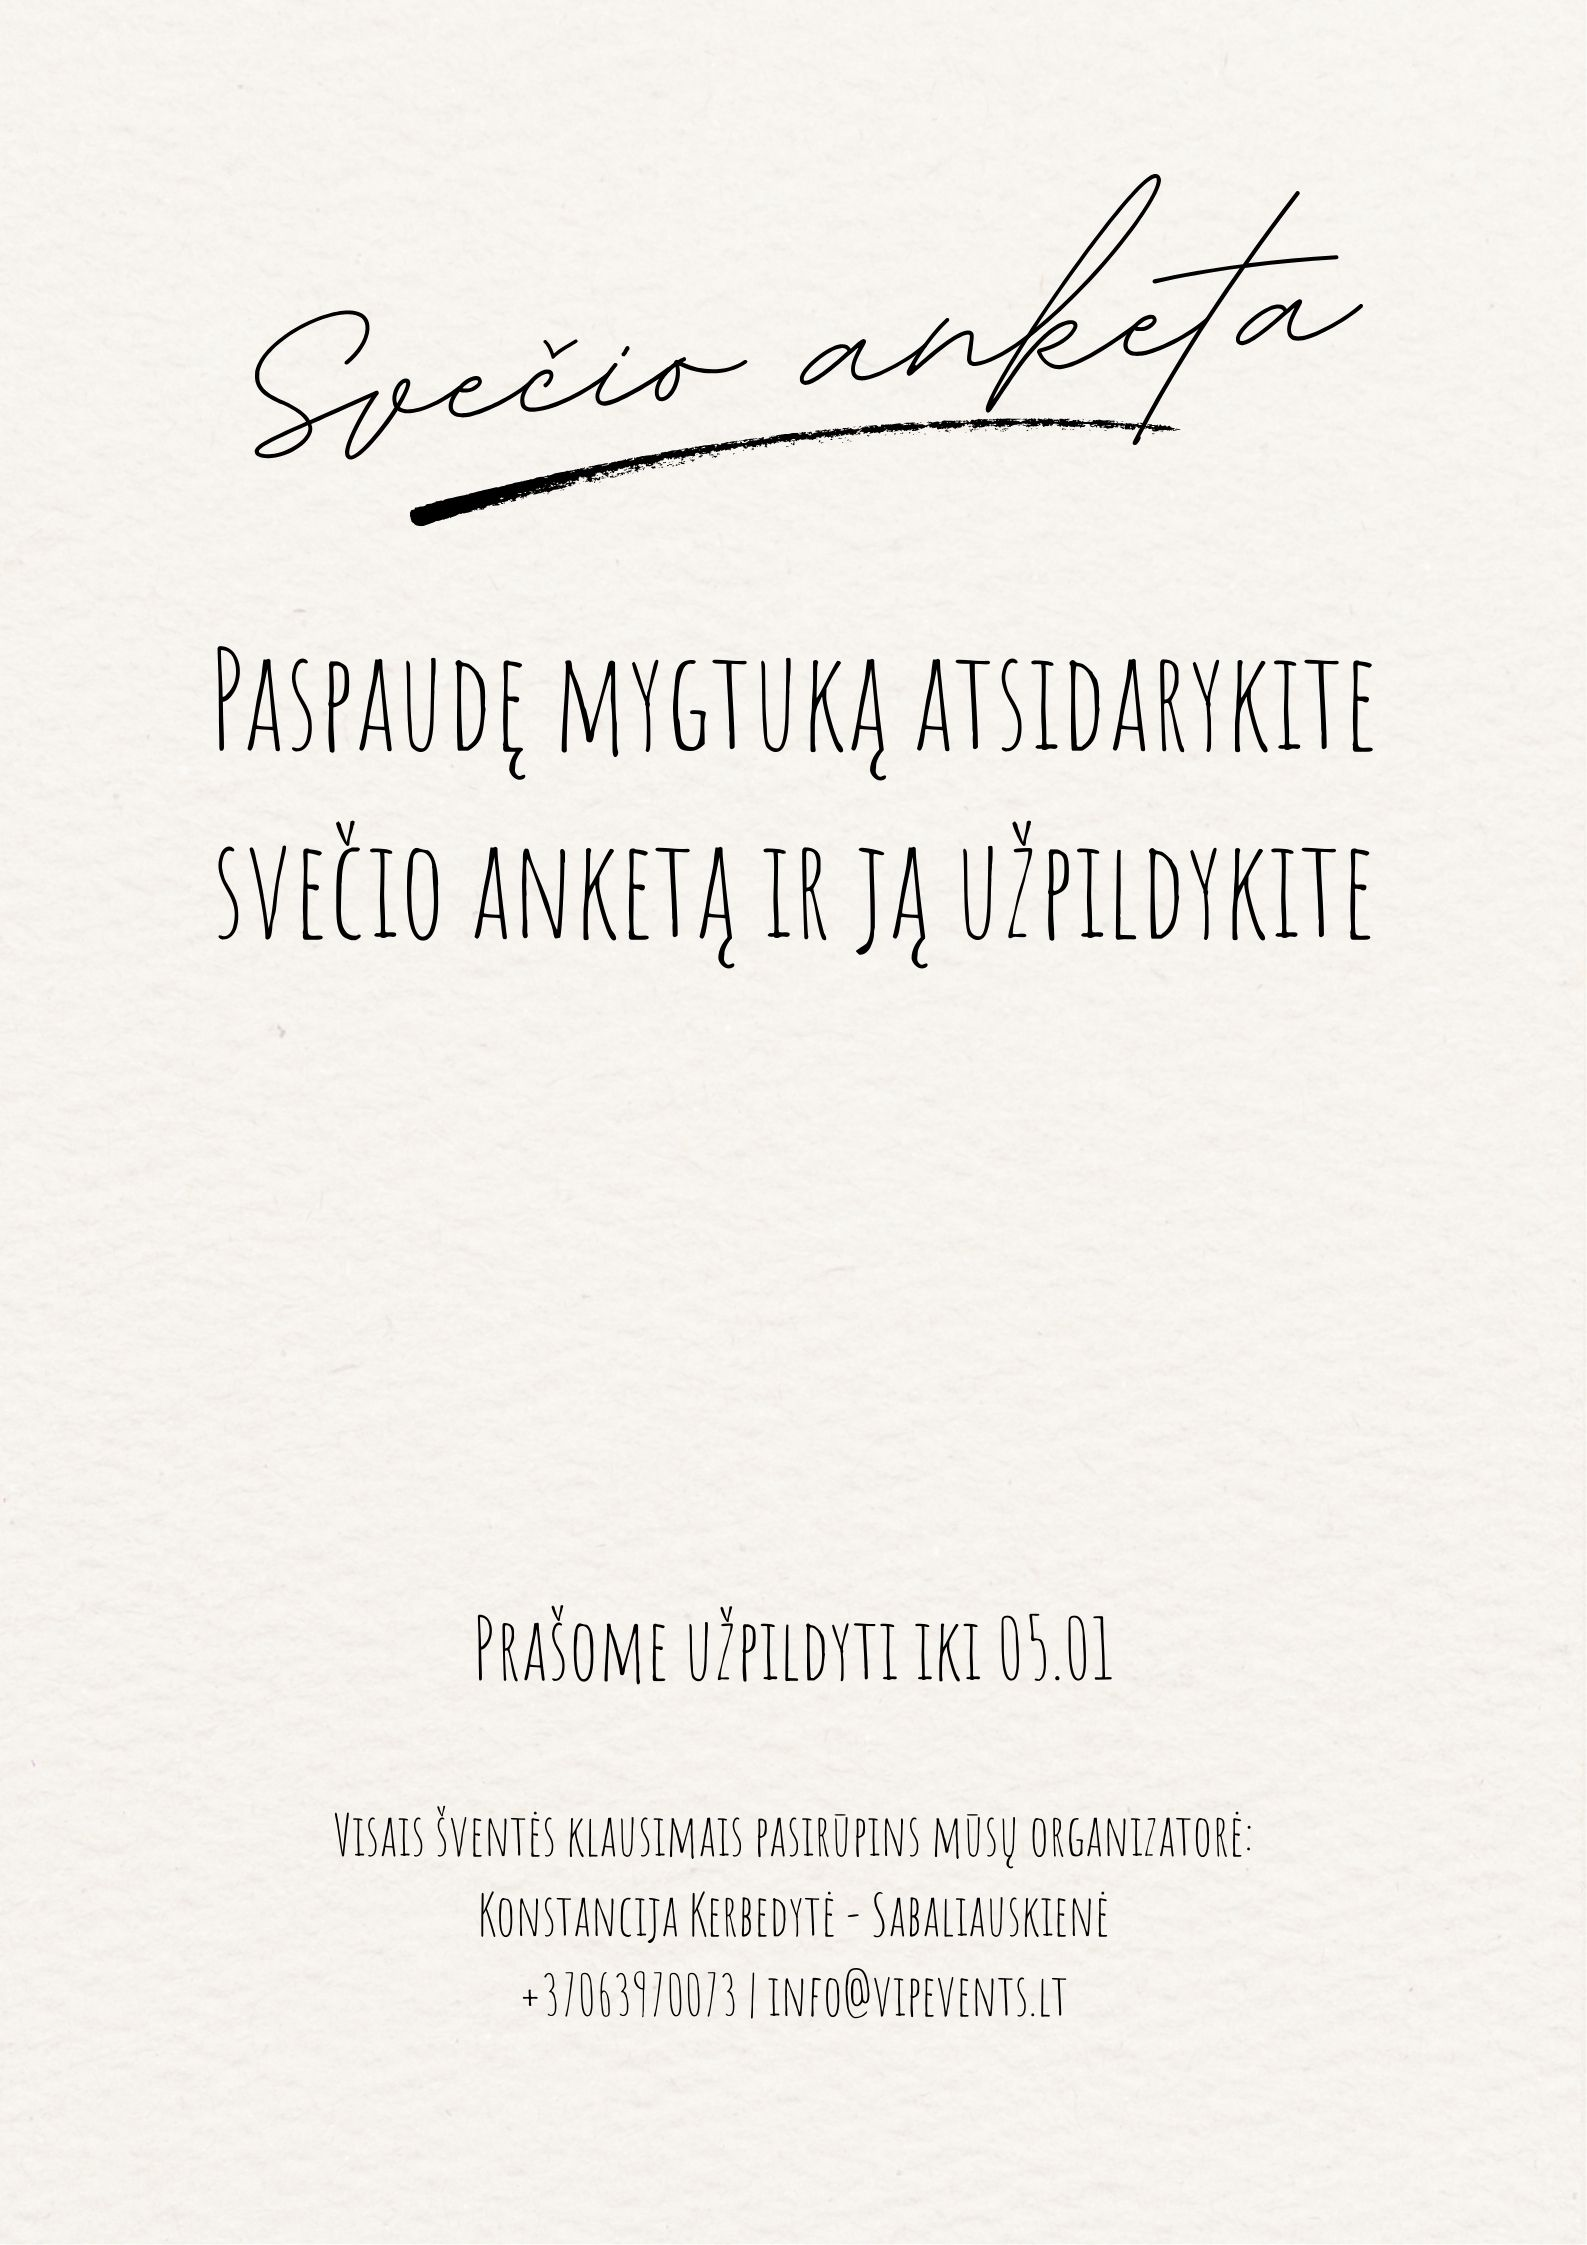
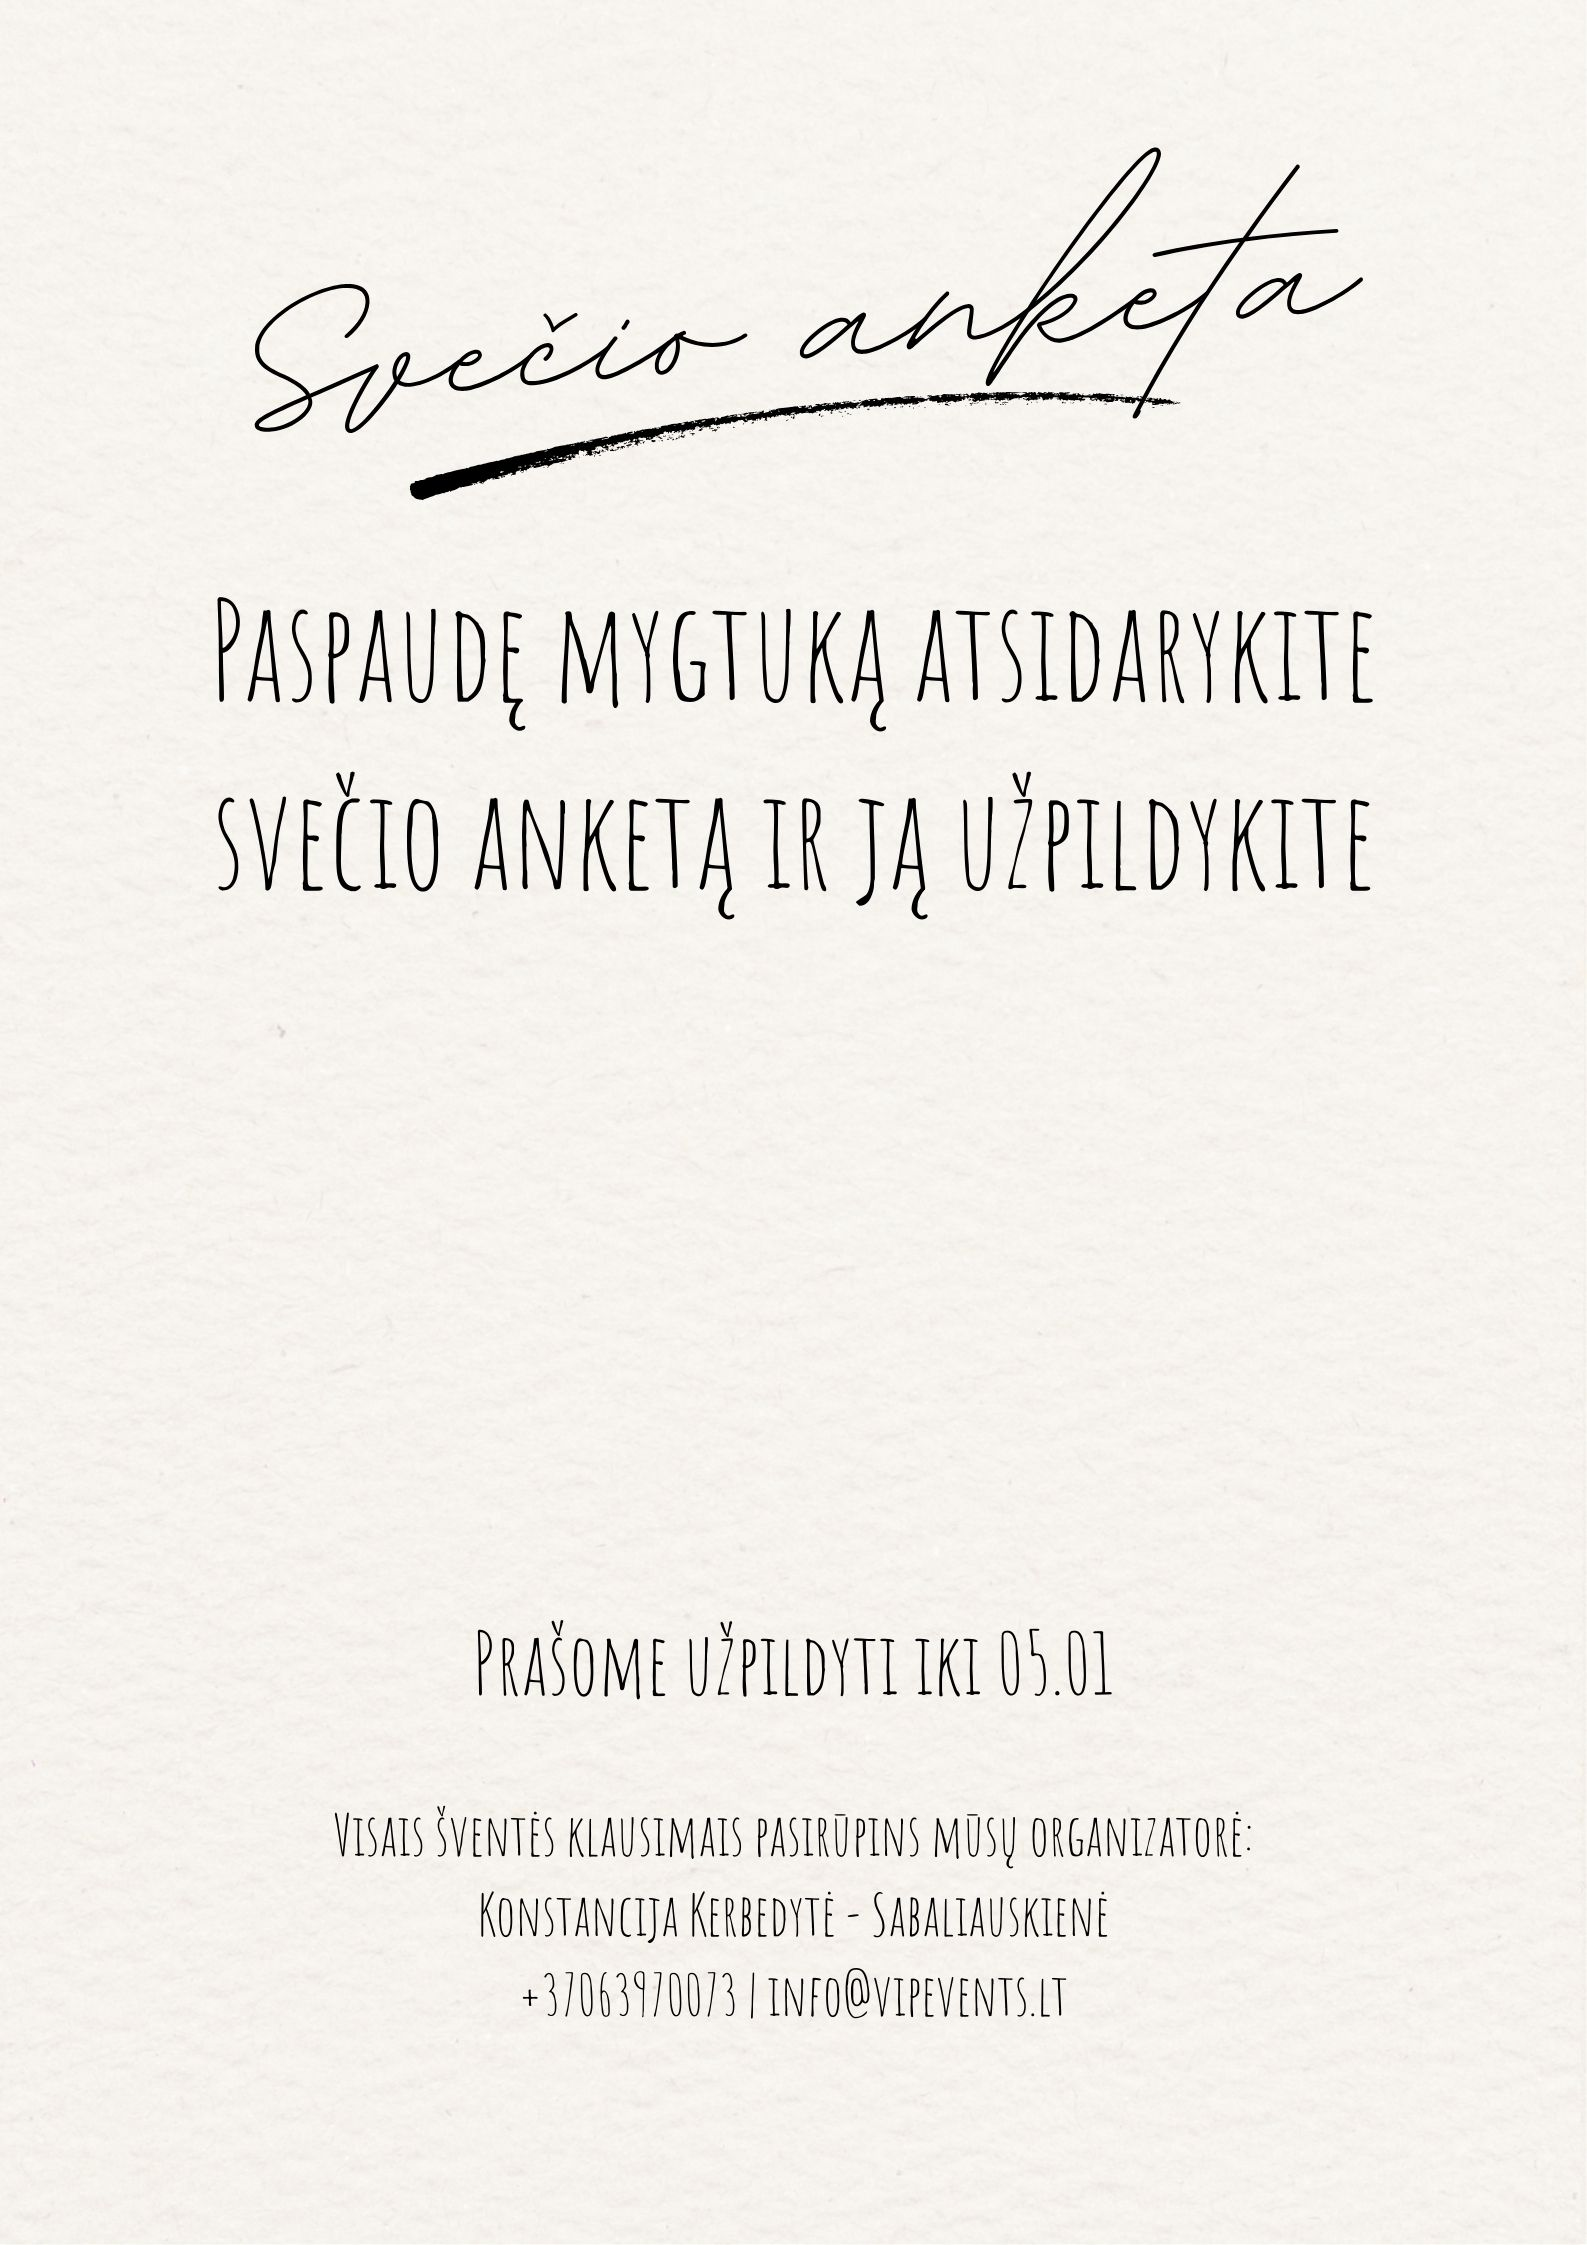
some adjustments

diff --git a/style.css b/style.css
@@ -95,11 +95,11 @@ body {
 }
 
 .hero__title img {
-  width: 150px;
+  width: 130px;
   height: auto;
   display: block;
   margin: 0px auto 0 auto;
-  transform: translateY(2px) translateX(2px) rotate(-2deg);
+  transform: translateY(2px) translateX(5px) rotate(-2deg);
 }
 
 .hero__photo {
@@ -331,11 +331,11 @@ body {
 /* MYGTUKAS */
 .rsvp__btn {
   position: absolute;
-  bottom: 38%;
+  bottom: 39%;
   left: 50%;
   transform: translateX(-50%) rotate(-1.5deg) scale(1);
 
-  padding: 12px 22px;
+  padding: 14px 30px;
   font-size: 18px;
 
   --btn-main: #948062;
